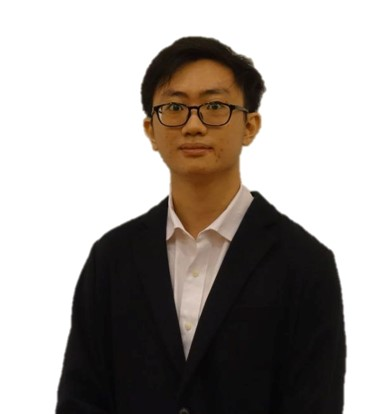
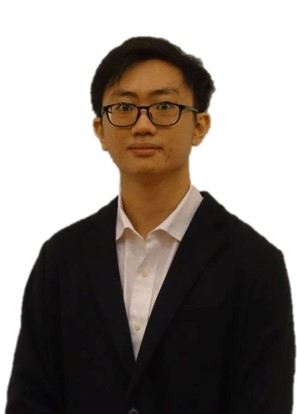
Improved more on the first page + Implicit error fix

Changed region(s): [[0.0, 0.087, 1.0, 1.0], [0.4242, 0.9855, 0.4848, 1.0], [0.4848, 0.6087, 0.5152, 0.6377]]

diff --git a/app/(site)/page.tsx b/app/(site)/page.tsx
@@ -6,32 +6,32 @@ export default async function Home() {
   const projects = await getProjects();
 
   return (
-    <section >
-      <div className="mt-5 grid grid-cols-2 gap-6 justify-between items-center">
-        <span>
-          <h1 className="text-5xl font-extrabold">Hey there, 
+    <section>
+      <div className=" border-2 border-gray-500 rounded-lg p-1 mt-5 grid grid-cols-2 gap-6 justify-items-center items-center">
+        <span className="py-30">
+          <h1 className="text-6xl font-extrabold">Hey there, 
             <br></br>
               I&apos;m
             <br></br>
           </h1>
           <h1>
-            <span className="text-6xl font-extrabold bg-gradient-to-r from-orange-400 via-red-500 to-purple-600 bg-clip-text text-transparent"> Ho Wei Hao</span>
+            <span className="text-7xl font-extrabold bg-gradient-to-r from-orange-400 via-red-500 to-purple-600 bg-clip-text text-transparent"> Wei Hao</span>
           </h1>
         </span>
         <span>
           <Image 
             src='/Images/Photo1.jpg'
-            alt='/Images/Photo2.jpg'
-            width={750}
-            height={300}
-            className="rounded-lg "
+            alt='A photo of me.'
+            width={250}
+            height={50}
+            className="rounded-lg items-center"
             />
         </span>
       </div>
 
       <div>
-        <h2 className="mt-12 text-2xl text-gray-600">Welcome to my page!</h2>
-
+        <h2 className="mt-12 mb-3 text-2xl text-gray-600 underlined">Welcome to my page!</h2>
+      
         <p className="mt-3 text-gray-700 text-0.1xl px=30" style={{ fontSize: 15 }}>
           I am a Year 2 Electrical Engineering student studying at the National University of Singapore who is eager to take on new experiences and learn new things. I also have a Second Major in Innovation and Design.
         </p>
@@ -47,11 +47,8 @@ export default async function Home() {
         <p className="mt-3 text-gray-700 text-0.1xl px=30" style={{ fontSize: 15 }}>
           As of now, I am eagerly looking for opportunities to grow in my technical engineering skills as well as soft skills like leadership and public speaking.
         </p>
-
       </div>
-      
-        
-      </section>
+    </section>
 
   )
 

diff --git a/app/(site)/layout.tsx b/app/(site)/layout.tsx
@@ -19,7 +19,7 @@ export default async function RootLayout({
 
   return (
     <html lang="en">
-      <body className="max-w-3xl mx-auto py-10">
+      <body className="max-w-5xl mx-auto py-5">
         <header className="flex items-center justify-between">
           <Link href="/" className="bg-gradient-to-r from-orange-400 via-red-500 to-purple-600 bg-clip-text text-transparent text-lg font-bold">Wei Hao</Link>
           <div className="flex items-center gap-5 text-sm text-gray-600">
@@ -31,7 +31,7 @@ export default async function RootLayout({
 
         </header>
         <hr></hr>
-        <main className="py-20">{children}</main>
+        <main className="py-15">{children}</main>
       </body>
     </html>
   )

diff --git a/sanity/schemas/project-schema.ts b/sanity/schemas/project-schema.ts
@@ -25,10 +25,10 @@ const project = {
             title: 'Slug',
             type: 'slug',
             options: {
-                source: (project) => {
+                source: (project: any) => {
                   return `/blog/${project.p_type}/${project.name}`;
                 },
-                slugify: (slug) => slug.toLowerCase().replace(/\s+/g, "-").slice(0, 200),
+                slugify: (slug: any) => slug.toLowerCase().replace(/\s+/g, "-").slice(0, 200),
             },
 
         },
